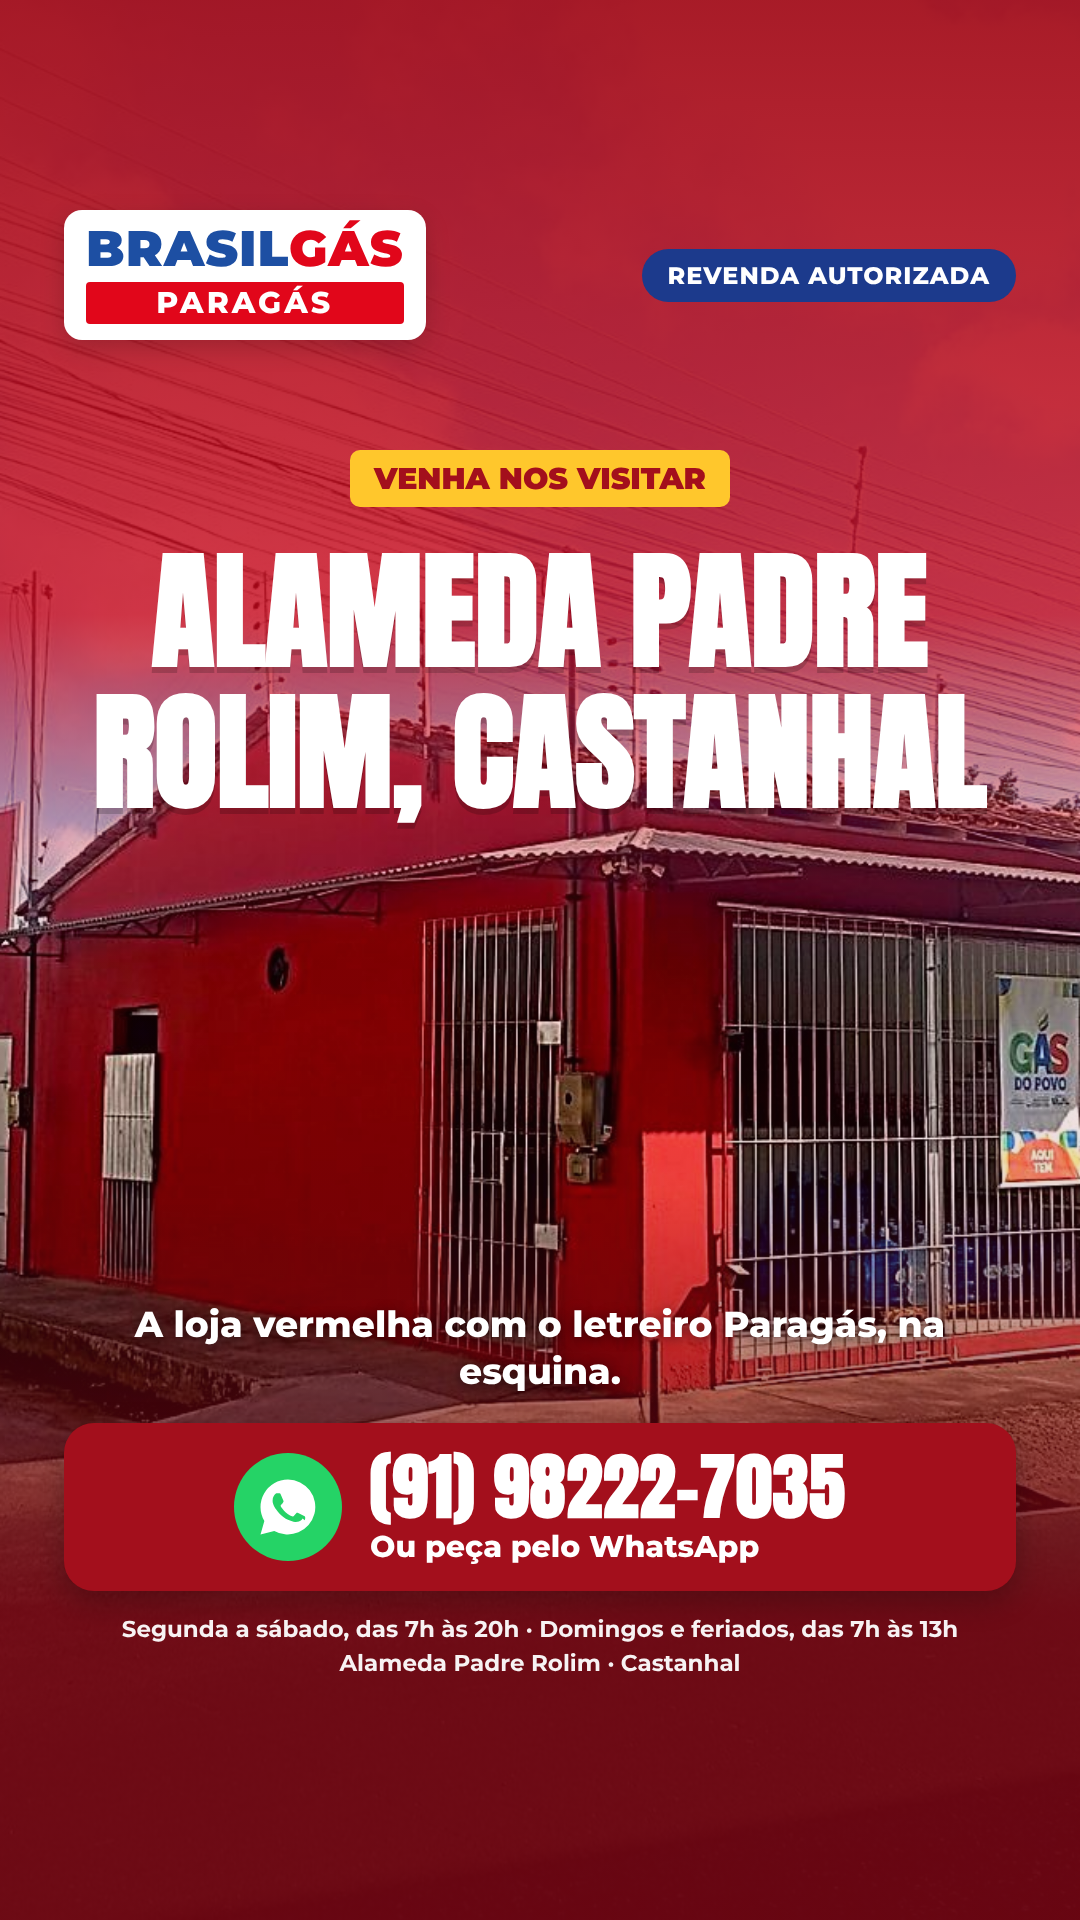
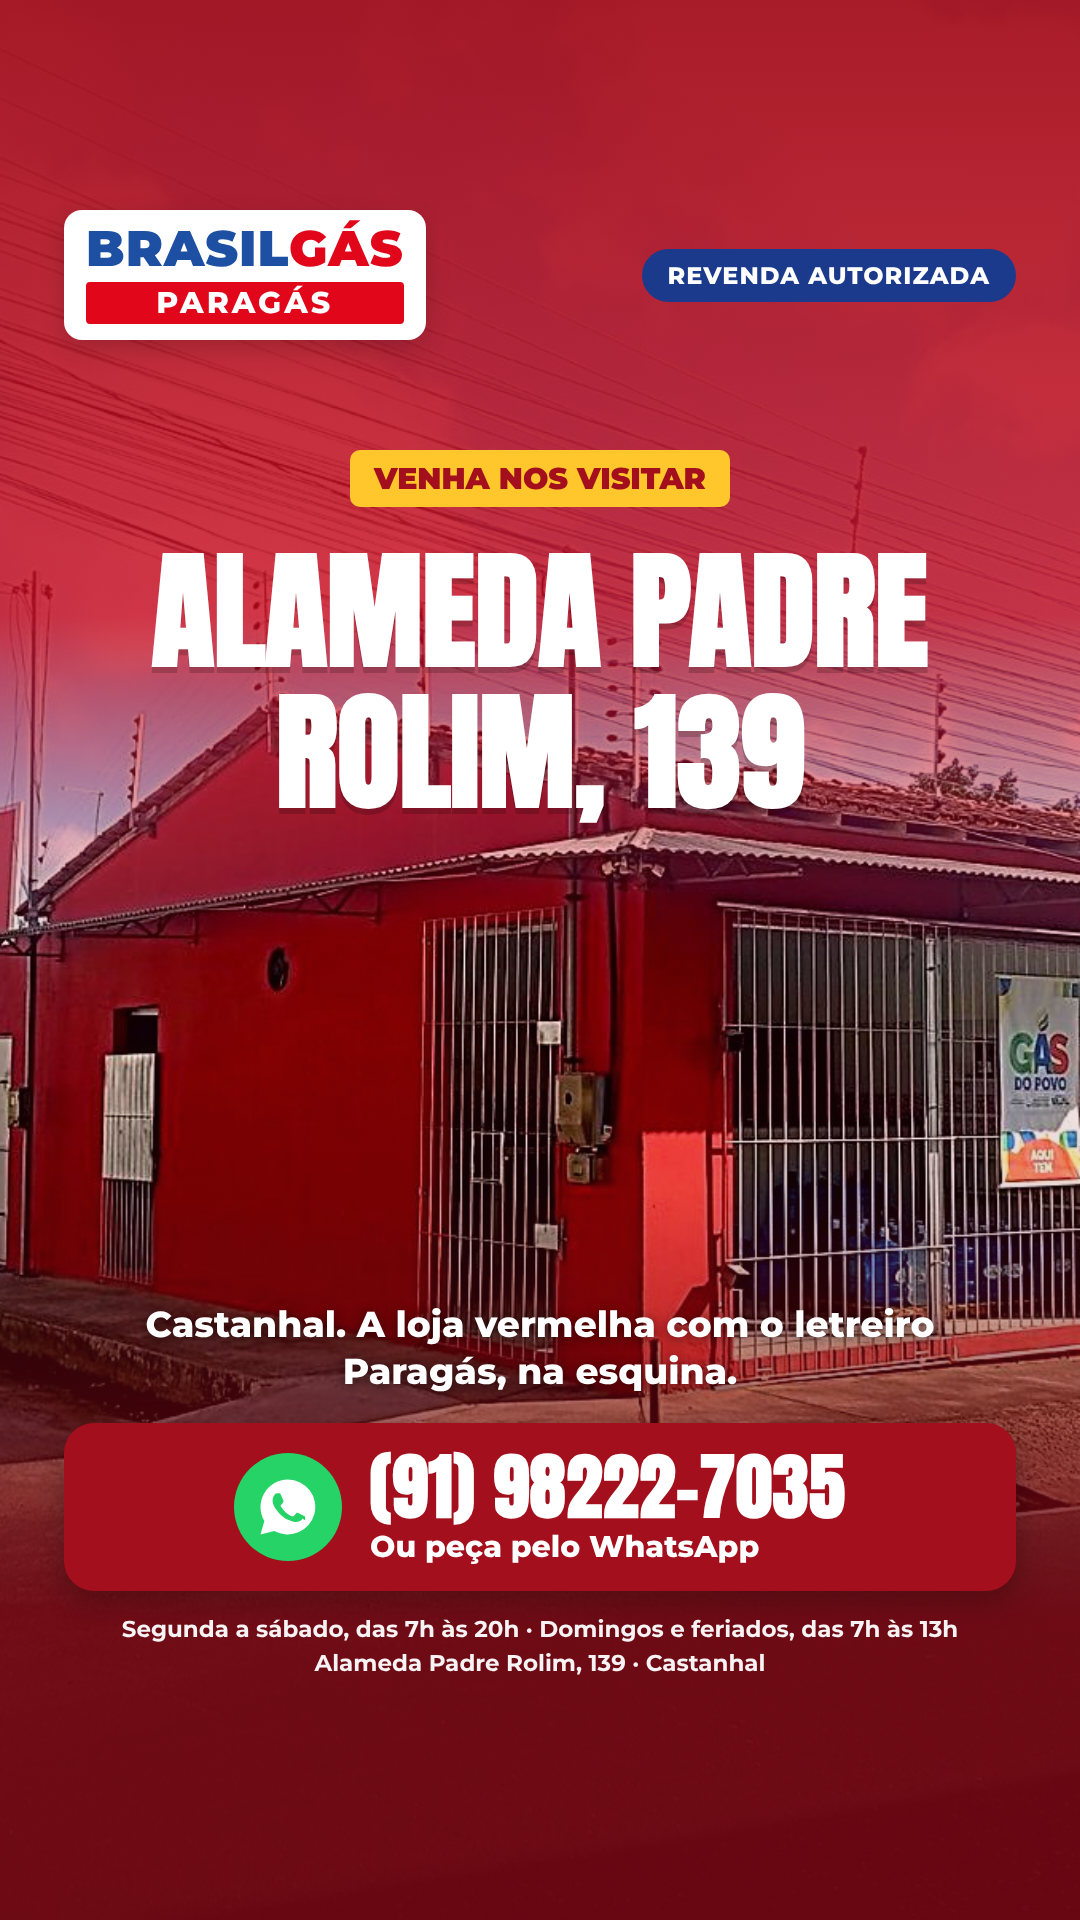
Endereço oficial: Alameda Padre Rolim, 139
Claude-Session: https://claude.ai/code/session_01HreVdfH4KSyTcqwS5GCGC6

Changed region(s): [[0.0917, 0.3438, 0.9167, 0.4375], [0.1222, 0.6562, 0.8861, 0.75], [0.3056, 0.8438, 0.7028, 0.875]]

diff --git a/templates/post.html b/templates/post.html
@@ -31,5 +31,5 @@ h1{margin-top:34px;font-family:'Anton';font-size:{{HSIZE}}px;line-height:1.1;tex
 <div class="sub2">{{SUB}}</div>
 <div class="cta"><div class="wa"><svg width="66" height="66" viewBox="0 0 24 24" fill="#fff"><path d="M12 2a10 10 0 0 0-8.6 15.1L2 22l5-1.3A10 10 0 1 0 12 2zm5.3 14.2c-.2.6-1.3 1.2-1.8 1.2-.5.1-1 .2-3.3-.7-2.8-1.1-4.5-3.9-4.7-4.1-.1-.2-1.1-1.5-1.1-2.9s.7-2.1 1-2.4c.3-.3.6-.3.8-.3h.6c.2 0 .4 0 .6.5l.9 2.1c.1.2.1.4 0 .6l-.4.6-.4.4c-.1.1-.3.3-.1.6.2.3.8 1.3 1.7 2.1 1.1 1 2.1 1.3 2.4 1.5.3.1.5.1.6-.1l.9-1c.2-.3.4-.2.7-.1l2 1c.3.1.5.2.5.3.1.2.1.7-.1 1.3z"/></svg></div>
 <div><b>(91) 98222-7035</b><span>{{CTA}}</span></div></div>
-<div class="foot">Segunda a sábado, das 7h às 20h · Domingos e feriados, das 7h às 13h<br>Alameda Padre Rolim · Castanhal</div>
+<div class="foot">Segunda a sábado, das 7h às 20h · Domingos e feriados, das 7h às 13h<br>Alameda Padre Rolim, 139 · Castanhal</div>
 </body></html>

diff --git a/validate.py b/validate.py
@@ -111,8 +111,8 @@ def main():
                     erros.append(f"legenda: falta o WhatsApp {tel}")
             if not HORARIO_OK.search(leg) or not FERIADO_OK.search(leg):
                 erros.append("legenda: falta o horário (7h às 20h e 7h às 13h)")
-            if "Alameda Padre Rolim" not in leg:
-                erros.append("legenda: falta o endereço")
+            if "Alameda Padre Rolim, 139" not in leg:
+                erros.append("legenda: falta o endereço (Alameda Padre Rolim, 139, Castanhal)")
             n_hash = len(re.findall(r"#\w+", leg))
             if not 3 <= n_hash <= 5:
                 erros.append(f"legenda: {n_hash} hashtags (o Instagram aceita no máximo 5; use de 3 a 5)")

diff --git a/.claude/skills/brasilgas-conteudo/SKILL.md b/.claude/skills/brasilgas-conteudo/SKILL.md
@@ -38,7 +38,7 @@ Se os plugins não estiverem disponíveis, siga só esta skill: ela é suficient
 - Dados exatamente assim:
   - WhatsApp (91) 98222-7035 e (91) 98548-0434;
   - seg–sáb 7h–20h, domingos e feriados 7h–13h;
-  - Alameda Padre Rolim, Castanhal.
+  - Alameda Padre Rolim, 139, Castanhal.
 - Feriado oficial: horário 7h–13h. Ponto facultativo (Carnaval, Corpus Christi): não afirmar horário.
 - Concorrentes (Grupo Leo Gás) são só referência de formato. Nunca citar nome nem copiar arte ou texto.
 - Imagem gerada por IA → `isAiGenerated: true` no Metricool.
@@ -71,7 +71,7 @@ Manchete da arte: **até 40 caracteres**, com no máximo 3 linhas na arte.
 
 📲 Chame no WhatsApp: (91) 98222-7035 ou (91) 98548-0434
 🕖 Seg a sáb, 7h às 20h | Domingos e feriados, 7h às 13h
-📍 Alameda Padre Rolim, Castanhal
+📍 Alameda Padre Rolim, 139, Castanhal
 
 #Castanhal #GásDeCozinha #Brasilgás + até 2 do tema (MÁXIMO 5 hashtags: limite do Instagram desde dez/2025)
 ```

diff --git a/skills/brasilgas-conteudo/SKILL.md b/skills/brasilgas-conteudo/SKILL.md
@@ -38,7 +38,7 @@ Se os plugins não estiverem disponíveis, siga só esta skill: ela é suficient
 - Dados exatamente assim:
   - WhatsApp (91) 98222-7035 e (91) 98548-0434;
   - seg–sáb 7h–20h, domingos e feriados 7h–13h;
-  - Alameda Padre Rolim, Castanhal.
+  - Alameda Padre Rolim, 139, Castanhal.
 - Feriado oficial: horário 7h–13h. Ponto facultativo (Carnaval, Corpus Christi): não afirmar horário.
 - Concorrentes (Grupo Leo Gás) são só referência de formato. Nunca citar nome nem copiar arte ou texto.
 - Imagem gerada por IA → `isAiGenerated: true` no Metricool.
@@ -71,7 +71,7 @@ Manchete da arte: **até 40 caracteres**, com no máximo 3 linhas na arte.
 
 📲 Chame no WhatsApp: (91) 98222-7035 ou (91) 98548-0434
 🕖 Seg a sáb, 7h às 20h | Domingos e feriados, 7h às 13h
-📍 Alameda Padre Rolim, Castanhal
+📍 Alameda Padre Rolim, 139, Castanhal
 
 #Castanhal #GásDeCozinha #Brasilgás + até 2 do tema (MÁXIMO 5 hashtags: limite do Instagram desde dez/2025)
 ```

diff --git a/CLAUDE.md b/CLAUDE.md
@@ -6,7 +6,7 @@ Repositório usado pela tarefa agendada diária. As artes ficam em `midia/AAAA-M
 - Preço NUNCA aparece em arte nem legenda (preço só no WhatsApp).
 - Botijão P13 sempre prata, sem logo. Mascote prata e P13 nunca lado a lado.
 - Brasilgás é revenda autorizada; Paragás é a marca do gás.
-- Dados fixos: WhatsApp (91) 98222-7035 e 98548-0434; seg–sáb 7h–20h, domingos e feriados 7h–13h; Alameda Padre Rolim, Castanhal.
+- Dados fixos: WhatsApp (91) 98222-7035 e 98548-0434; seg–sáb 7h–20h, domingos e feriados 7h–13h; Alameda Padre Rolim, 139, Castanhal.
 - Gás do Povo: revenda credenciada (pode citar).
 - Nunca inventar promoção, cupom, desconto, prazo de entrega ou preço. Se a pauta pedir oferta e não houver oferta confirmada em `ofertas.json`, troque por outro tema.
 - Conteúdo original. O Grupo Leo Gás é só referência de formato.

diff --git a/aprendizados.md b/aprendizados.md
@@ -47,6 +47,8 @@ Quando uma regra daqui virar permanente, ela sobe para CLAUDE.md ou para a skill
 
 - 21/11 · Metricool não publica no Status do WhatsApp (nenhuma ferramenta publica). Foco no Google Meu Negócio, que a Brasilgás já tem: posts de feed também vão para o Google quando a conexão existir.
 
+- 21/11 · Endereço oficial: Alameda Padre Rolim, 139, Castanhal (Gabriel confirmou; o Instagram mostrava 138). Atualizado no template, regras, skill e verificador. Google Meu Negócio conectado ao Metricool pelo Gabriel.
+
 ## Números de referência
 - 21/11 · Painel do Instagram: 830 visualizações nos últimos 30 dias, 69 seguidores, 23 posts.
 - 21/11 · 68 seguidores. Reel "Sextou" (20/11): 19 views e 2 curtidas.

diff --git a/perfil/bio.md b/perfil/bio.md
@@ -24,7 +24,7 @@ Pediu no zap, a gente leva 👇
 
 > O link do WhatsApp já está no perfil, por isso a bio termina com 👇 apontando para ele.
 > Categoria do perfil: "Serviço de entrega de gás" ou "Distribuidora de gás".
-> Endereço no perfil: Alameda Padre Rolim, Castanhal-PA (ativa o botão "Como chegar").
+> Endereço no perfil: Alameda Padre Rolim, 139, Castanhal-PA (ativa o botão "Como chegar").
 
 ## Destaques (ordem sugerida)
 | Destaque | Capa | Story dentro |
